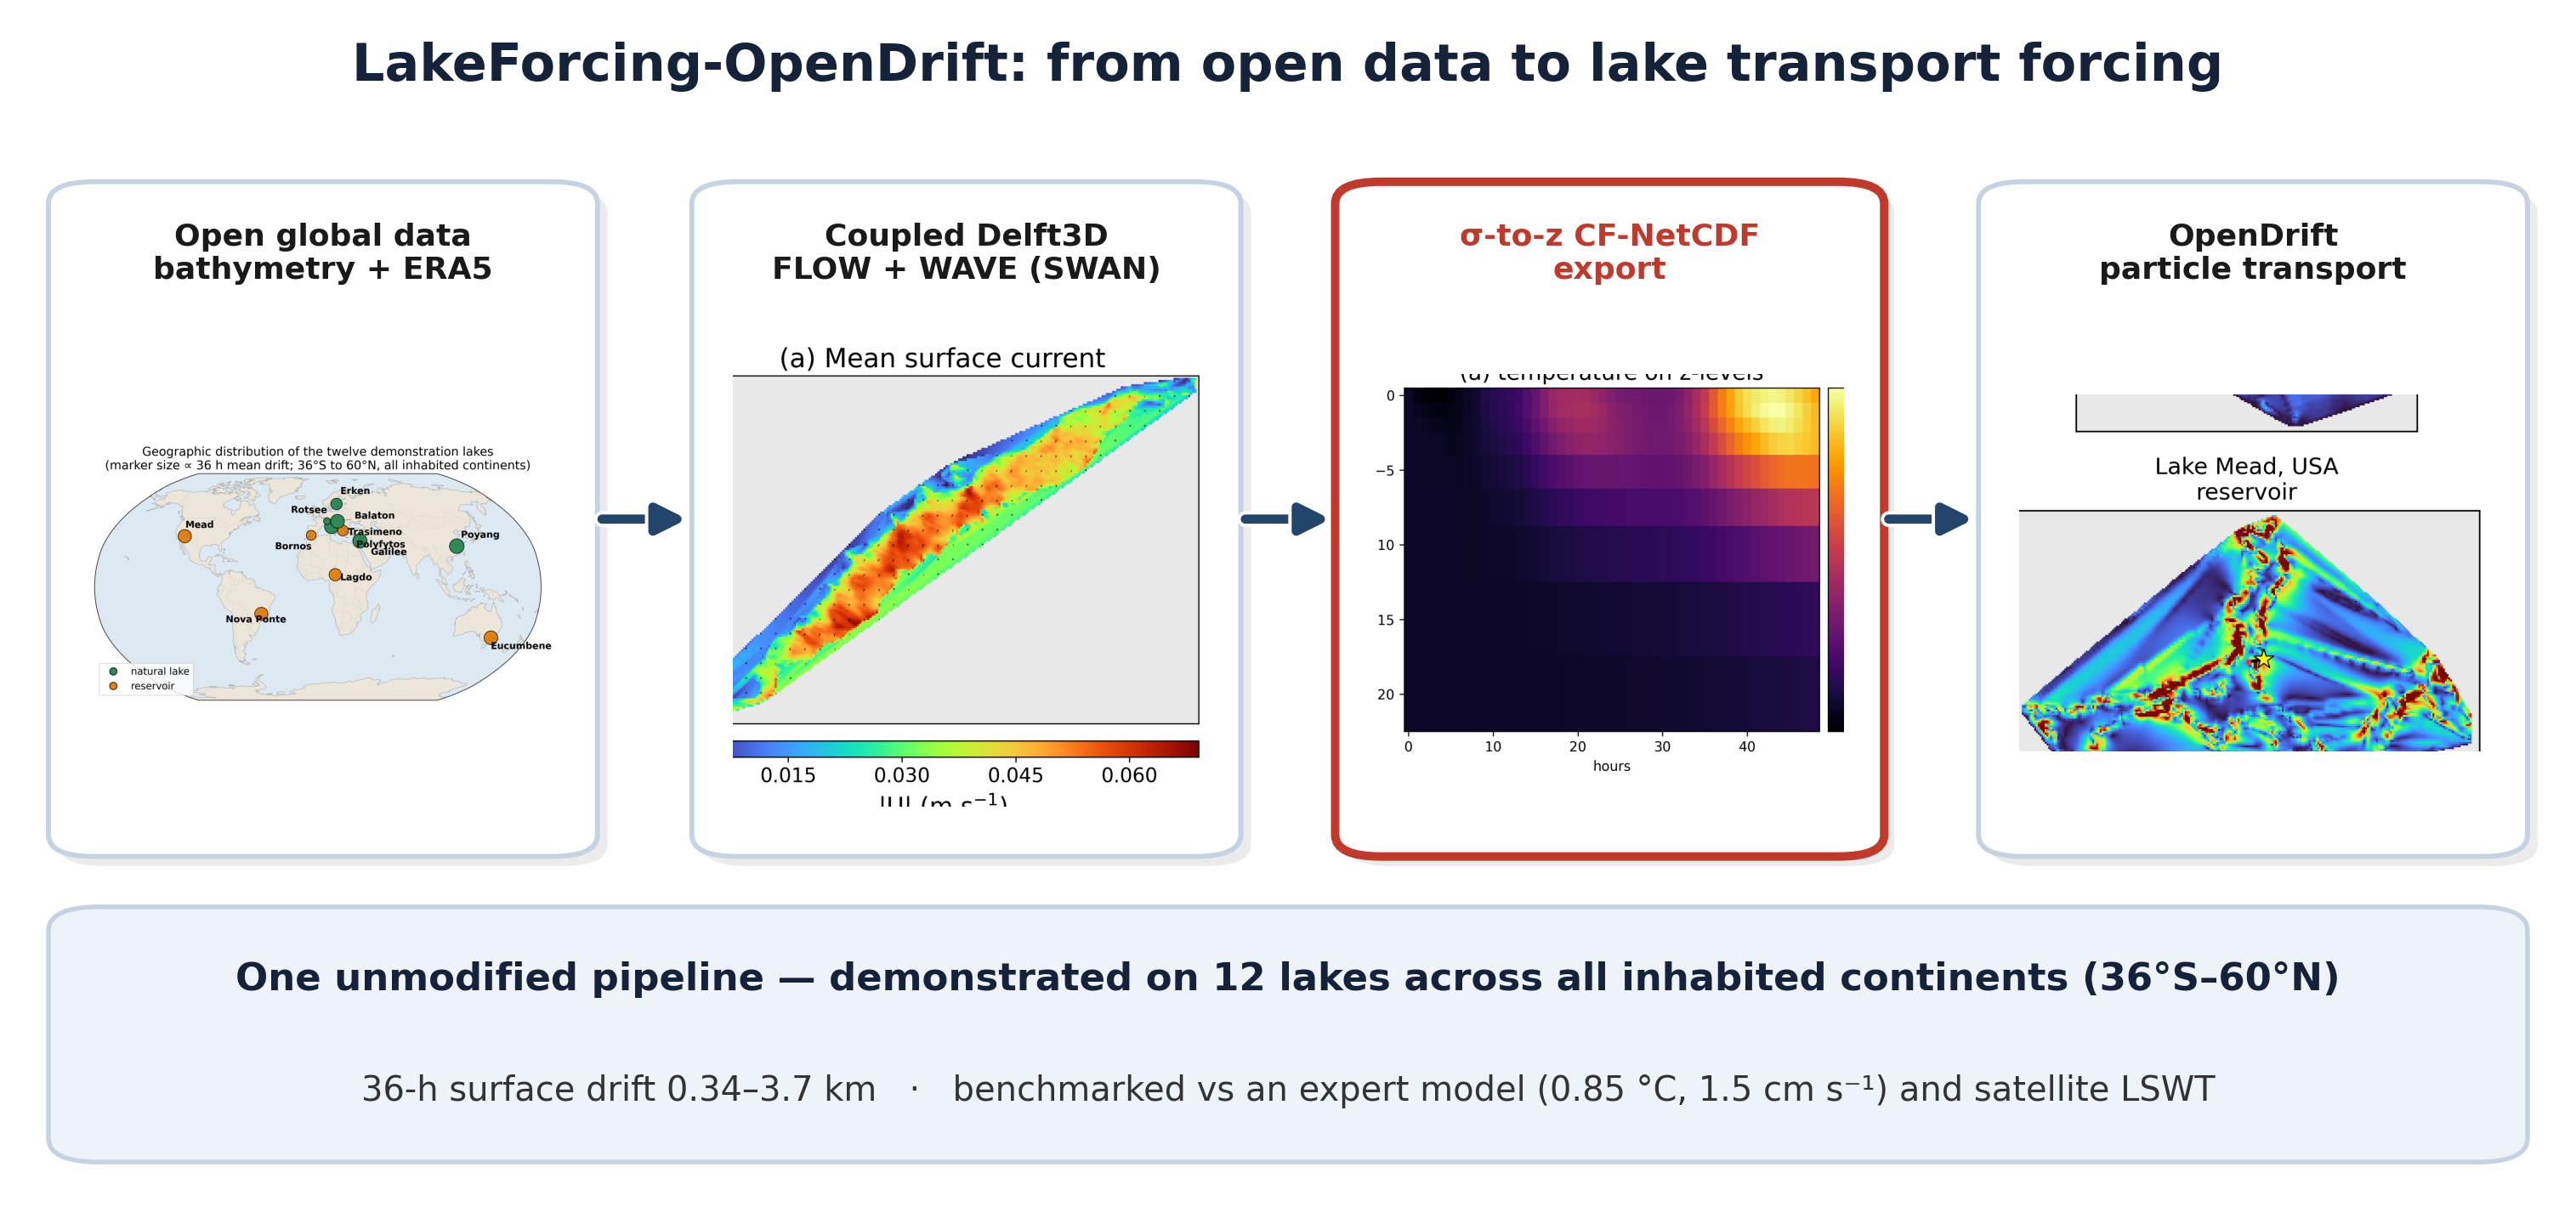
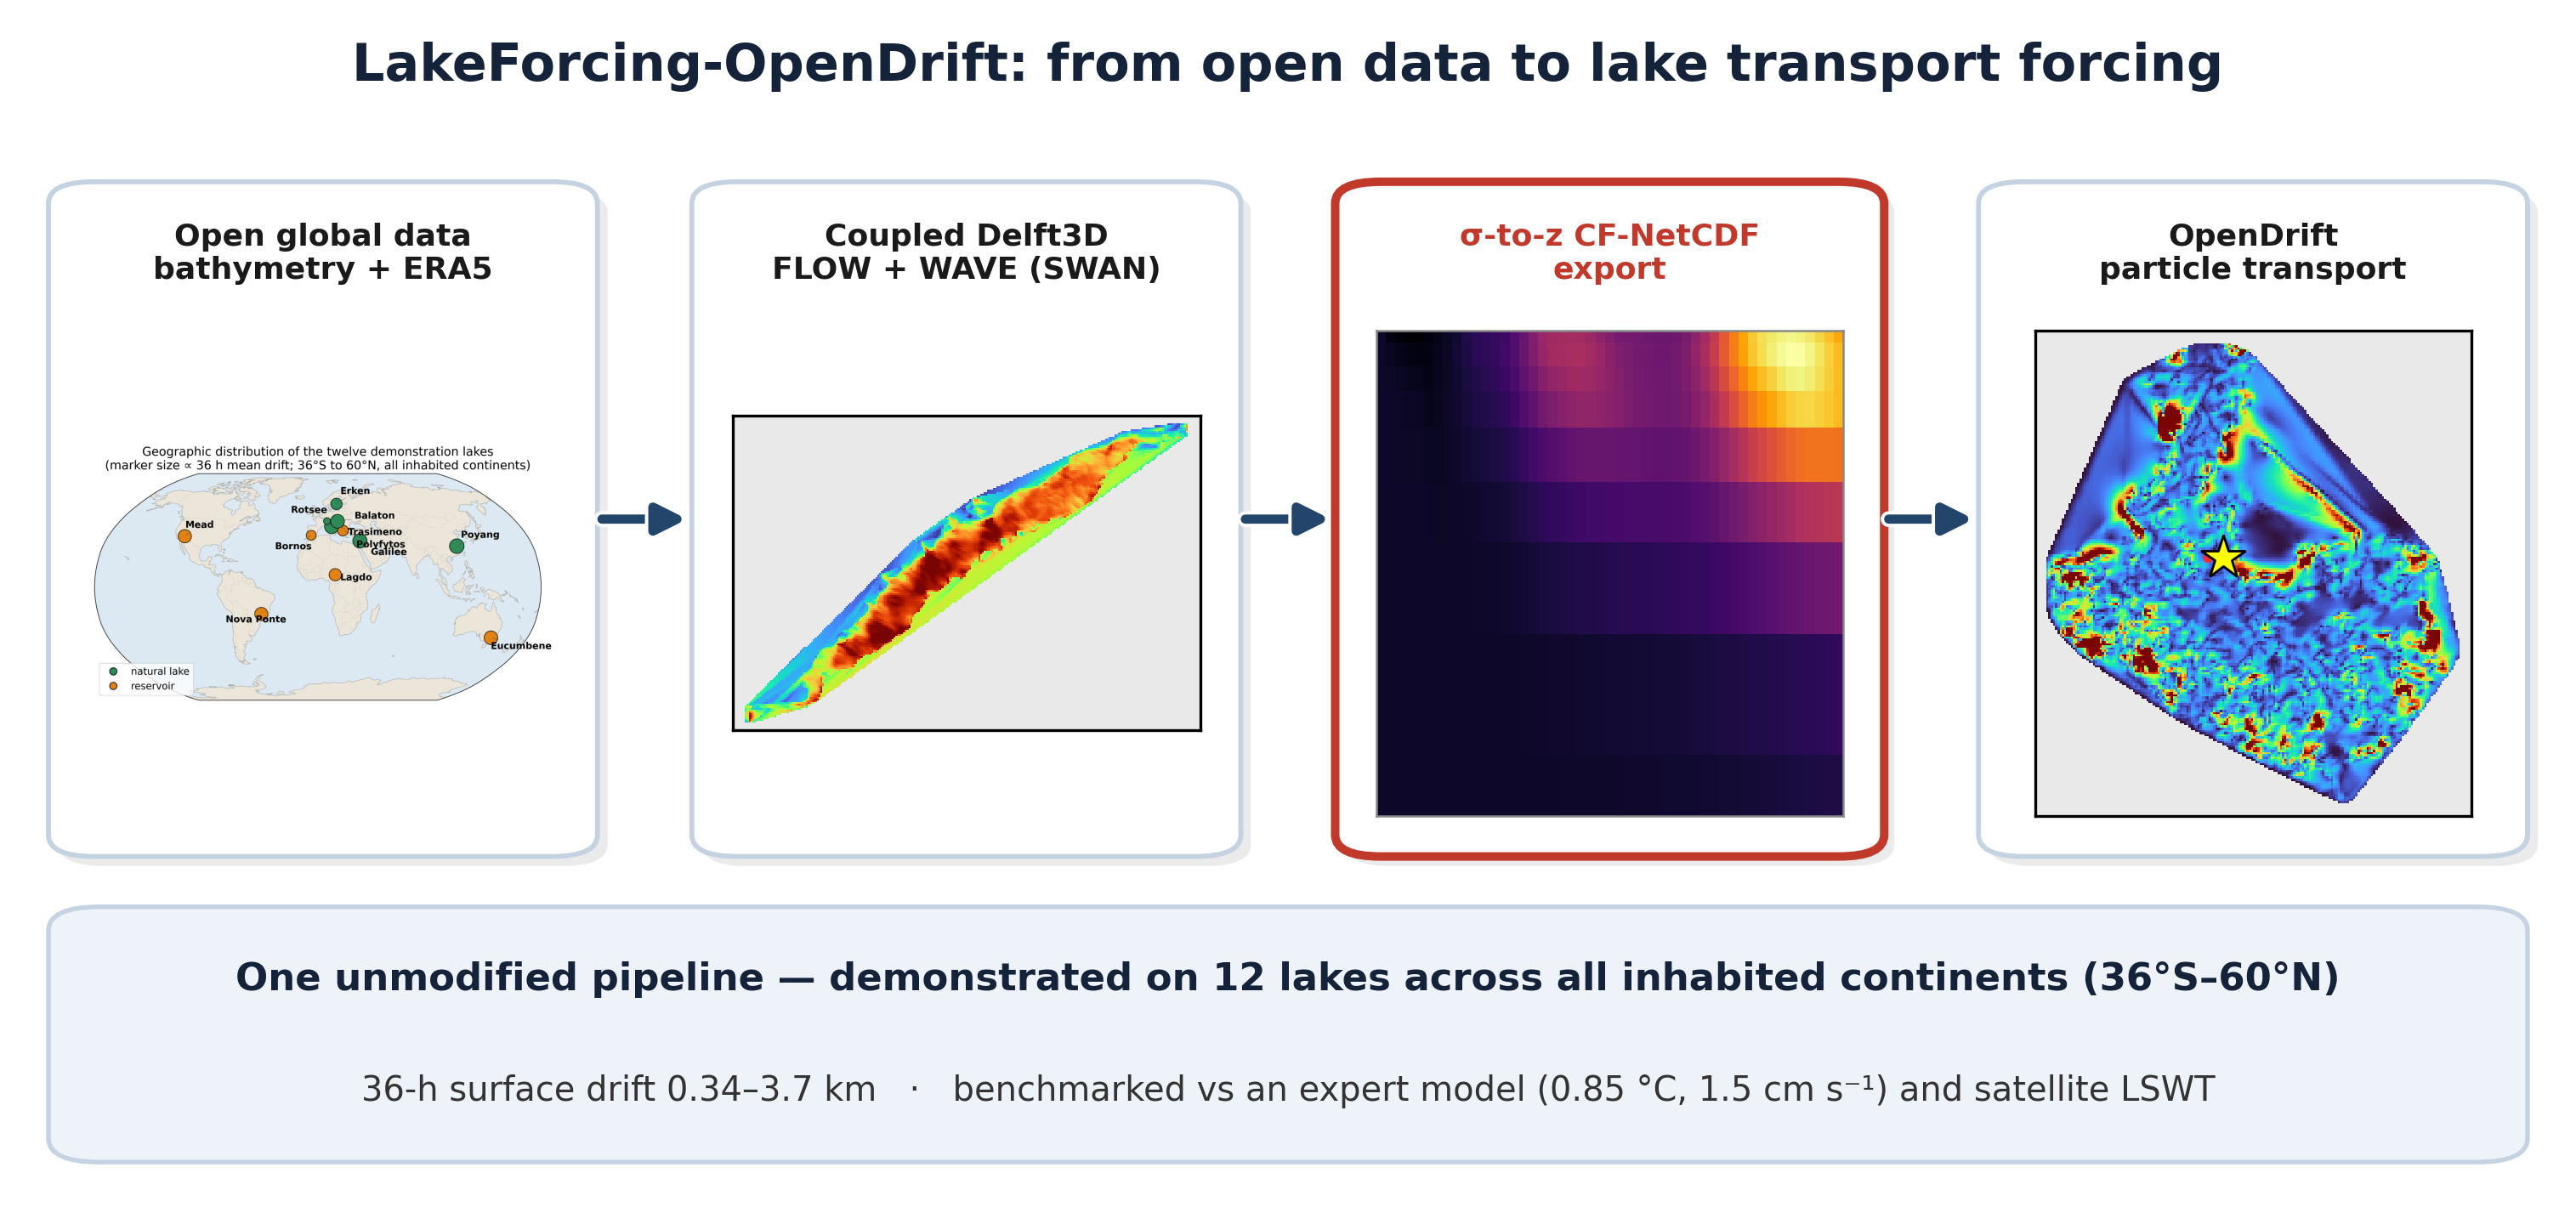
Fix graphical abstract: render stages 2-4 from data (no clipped colorbars/titles/panels)
Stages 2-4 of the graphical abstract are now drawn directly from the released forcing
and trajectory NetCDFs as clean single panels (Polyfytos surface current; Erken depth
section; Poyang transport), instead of cropping the multi-panel paper figures, which
clipped a colorbar (stage 2), a panel title (stage 3) and caught a neighbouring panel
(stage 4). Aspect preserved (no stretch); titles inside the boxes.

Changed region(s): [[0.5274, 0.25, 0.7135, 0.6875], [0.7756, 0.25, 0.9617, 0.6875], [0.2792, 0.2812, 0.4653, 0.6562]]

diff --git a/src/make_graphical_abstract.py b/src/make_graphical_abstract.py
@@ -1,15 +1,17 @@
 """
-make_graphical_abstract.py -- Elsevier graphical abstract for LakeForcing-OpenDrift,
-plate-assembled from the paper's OWN rendered figures (not cartoons, not AI):
-open global data -> coupled Delft3D-FLOW/WAVE -> sigma-to-z CF-NetCDF -> OpenDrift.
-Each stage is a real, tightly-cropped paper plot, placed WITHOUT distortion (aspect
-preserved, centred) inside a titled rounded box; arrows link the stages; a results
-banner sits below. >=300 dpi.
+make_graphical_abstract.py -- Elsevier graphical abstract for LakeForcing-OpenDrift.
+Plate-assembled from the paper's own data: stage 1 is the global lake map (real
+paper figure); stages 2-4 are clean single panels rendered directly from the
+released forcing/trajectory NetCDFs (no titles, colorbars or neighbouring panels
+to clip). Each stage sits, undistorted, inside a titled rounded box; arrows link
+the stages; a results banner sits below. >=300 dpi.
 
   python src/make_graphical_abstract.py
 """
+import json
 from pathlib import Path
 import numpy as np
+import xarray as xr
 from PIL import Image
 import matplotlib
 matplotlib.use("Agg")
@@ -19,37 +21,90 @@ import matplotlib.patheffects as pe
 
 ROOT = Path(r"C:/Users/vaspapa/Desktop/LakeForcing_OpenDrift")
 DOCS, OUT = ROOT / "docs", ROOT / "output"
-PAN, CORE, ARR = "#ffffff", "#c0392b", "#23456b"
-PANE = "#c4d2e2"
+PAN, CORE, ARR, PANE = "#ffffff", "#c0392b", "#23456b", "#c4d2e2"
 FIGW, FIGH = 10.0, 4.7
 
-# (figure, tight fractional crop l,t,r,b, short title, edge colour). Crops are
-# tight to a SINGLE clean panel so no neighbouring panel bleeds in.
+
+def _crop_wet(ax, lon, lat, wet):
+    cc = np.where(wet.any(axis=0))[0]; rr = np.where(wet.any(axis=1))[0]
+    if cc.size and rr.size:
+        px = max((lon[cc[-1]] - lon[cc[0]]) * 0.03, 1e-6)
+        py = max((lat[rr[-1]] - lat[rr[0]]) * 0.03, 1e-6)
+        ax.set_xlim(lon[cc[0]] - px, lon[cc[-1]] + px)
+        ax.set_ylim(lat[rr[0]] - py, lat[rr[-1]] + py)
+
+
+def draw_current(ax, prefix):
+    ds = xr.open_dataset(OUT / f"{prefix}_forcing.nc")
+    u = np.nanmean(ds["u"].isel(depth=0).values, axis=0)
+    v = np.nanmean(ds["v"].isel(depth=0).values, axis=0)
+    spd = np.hypot(u, v); fin = spd[np.isfinite(spd)]
+    vmax = np.nanpercentile(fin, 97) if fin.size else 0.05
+    ax.set_facecolor("#e9e9e9")
+    cmap = plt.get_cmap("turbo").copy(); cmap.set_bad(alpha=0)
+    ax.pcolormesh(ds.lon, ds.lat, np.ma.masked_invalid(spd), cmap=cmap,
+                  vmin=0, vmax=max(vmax, 1e-3), shading="auto")
+    _crop_wet(ax, ds.lon.values, ds.lat.values, np.isfinite(spd))
+    ax.set_aspect("equal"); ax.set_anchor("C"); ax.set_xticks([]); ax.set_yticks([])
+    ds.close()
+
+
+def draw_section(ax, prefix):
+    ds = xr.open_dataset(OUT / f"{prefix}_forcing.nc")
+    temp = ds["temp"].values                       # (time, depth, lat, lon)
+    valid = np.isfinite(temp[0]).sum(axis=0)
+    jy, jx = np.unravel_index(np.argmax(valid), valid.shape)
+    sec = temp[:, :, jy, jx]                        # (time, depth)
+    z = ds["depth"].values
+    hours = np.arange(temp.shape[0])
+    cmap = plt.get_cmap("inferno").copy(); cmap.set_bad("#f3f3f3")
+    ax.pcolormesh(hours, z, np.ma.masked_invalid(sec).T, cmap=cmap, shading="auto")
+    kz = np.where(np.isfinite(sec).any(axis=0))[0]
+    if kz.size:
+        ax.set_ylim(z[kz[-1]], 0)
+    ax.set_aspect("auto"); ax.set_xticks([]); ax.set_yticks([])
+    for s in ax.spines.values():
+        s.set_edgecolor("#888"); s.set_linewidth(0.6)
+    ds.close()
+
+
+def draw_traj(ax, prefix):
+    ds = xr.open_dataset(OUT / f"{prefix}_forcing.nc")
+    u = np.nanmean(ds["u"].isel(depth=0).values, axis=0)
+    v = np.nanmean(ds["v"].isel(depth=0).values, axis=0)
+    spd = np.hypot(u, v); fin = spd[np.isfinite(spd)]
+    vmax = np.nanpercentile(fin, 97) if fin.size else 0.05
+    ax.set_facecolor("#e9e9e9")
+    cmap = plt.get_cmap("turbo").copy(); cmap.set_bad(alpha=0)
+    ax.pcolormesh(ds.lon, ds.lat, np.ma.masked_invalid(spd), cmap=cmap,
+                  vmin=0, vmax=max(vmax, 1e-3), shading="auto")
+    tr = xr.open_dataset(OUT / f"{prefix}_trajectory.nc")
+    lon, lat = tr["lon"].values, tr["lat"].values
+    for i in range(0, lon.shape[0], max(1, lon.shape[0] // 60)):
+        ax.plot(lon[i], lat[i], "-", color="black", lw=0.35, alpha=0.55)
+    ax.plot(lon[::20, -1], lat[::20, -1], ".", color="#ff2d2d", ms=2.0)
+    sd = OUT / f"{prefix}_seed.json"
+    if sd.exists():
+        s = json.loads(sd.read_text())
+        ax.plot(s["lon"], s["lat"], "*", color="yellow", ms=13, mec="black", mew=0.7)
+    tr.close()
+    _crop_wet(ax, ds.lon.values, ds.lat.values, np.isfinite(spd))
+    ax.set_aspect("equal"); ax.set_anchor("C"); ax.set_xticks([]); ax.set_yticks([])
+    ds.close()
+
+
+# stage: (drawer, title, edge colour)
 STAGES = [
-    (DOCS / "figure_lake_map.png",        None,
-     "Open global data\nbathymetry + ERA5", PANE),
-    (DOCS / "figure_forcing_example.png", (0.035, 0.115, 0.320, 0.955),
-     "Coupled Delft3D\nFLOW + WAVE (SWAN)", PANE),
-    (OUT / "figure_vertical_sigma_z.png", (0.035, 0.090, 0.455, 0.975),
-     "σ-to-z CF-NetCDF\nexport", CORE),
-    (OUT / "figure_demonstration.png",    (0.010, 0.350, 0.250, 0.640),
-     "OpenDrift\nparticle transport", PANE),
+    ("map",   "Open global data\nbathymetry + ERA5", PANE),
+    ("current", "Coupled Delft3D\nFLOW + WAVE (SWAN)", PANE),
+    ("section", "σ-to-z CF-NetCDF\nexport", CORE),
+    ("traj",  "OpenDrift\nparticle transport", PANE),
 ]
-
-
-def load_crop(path, box):
-    im = Image.open(path).convert("RGB")
-    if box:
-        W, H = im.size
-        l, t, r, b = box
-        im = im.crop((int(l * W), int(t * H), int(r * W), int(b * H)))
-    return np.asarray(im)
 
 
 def main():
     fig = plt.figure(figsize=(FIGW, FIGH))
     bg = fig.add_axes([0, 0, 1, 1]); bg.set_xlim(0, 1); bg.set_ylim(0, 1); bg.axis("off")
-
     bg.text(0.5, 0.955, "LakeForcing-OpenDrift: from open data to lake transport "
             "forcing", ha="center", va="center", fontsize=14.5, fontweight="bold",
             color="#15233a")
@@ -59,23 +114,9 @@ def main():
     yb, yt = 0.300, 0.855
     h = yt - yb
     ymid = (yb + yt) / 2
+    lake_map = np.asarray(Image.open(DOCS / "figure_lake_map.png").convert("RGB"))
 
-    def place(img, area):
-        """Put img in `area` (x,y,w,h fig-fraction), preserving aspect, centred."""
-        hp, wp = img.shape[:2]
-        A = wp / hp
-        aw, ah = area[2] * FIGW, area[3] * FIGH        # inches available
-        if A > aw / ah:                                # width-limited
-            dw, dh = aw, aw / A
-        else:                                          # height-limited
-            dh, dw = ah, ah * A
-        fw, fh = dw / FIGW, dh / FIGH
-        fx = area[0] + (area[2] - fw) / 2
-        fy = area[1] + (area[3] - fh) / 2
-        ax = fig.add_axes([fx, fy, fw, fh], zorder=3)
-        ax.imshow(img); ax.axis("off")
-
-    for i, (path, box, title, ec) in enumerate(STAGES):
+    for i, (kind, title, ec) in enumerate(STAGES):
         x0 = L + i * (bw + gap)
         bg.add_patch(FancyBboxPatch((x0 + 0.004, yb - 0.008), bw, h,
                      boxstyle="round,pad=0.004,rounding_size=0.018", fc="#000000",
@@ -85,8 +126,16 @@ def main():
                      lw=2.4 if ec == CORE else 1.4, zorder=2))
         bg.text(x0 + bw / 2, yt - 0.030, title, ha="center", va="top", fontsize=8.7,
                 fontweight="bold", color=CORE if ec == CORE else "#1a1a1a", zorder=4)
-        place(load_crop(path, box),
-              (x0 + 0.012, yb + 0.030, bw - 0.024, (yt - 0.120) - (yb + 0.030)))
+        area = [x0 + 0.012, yb + 0.030, bw - 0.024, (yt - 0.120) - (yb + 0.030)]
+        ax = fig.add_axes(area, zorder=3)
+        if kind == "map":
+            ax.imshow(lake_map, aspect="equal"); ax.set_anchor("C"); ax.axis("off")
+        elif kind == "current":
+            draw_current(ax, "polyfytos")
+        elif kind == "section":
+            draw_section(ax, "erken")
+        else:
+            draw_traj(ax, "poyang")
 
     for i in range(3):
         xa = L + i * (bw + gap) + bw